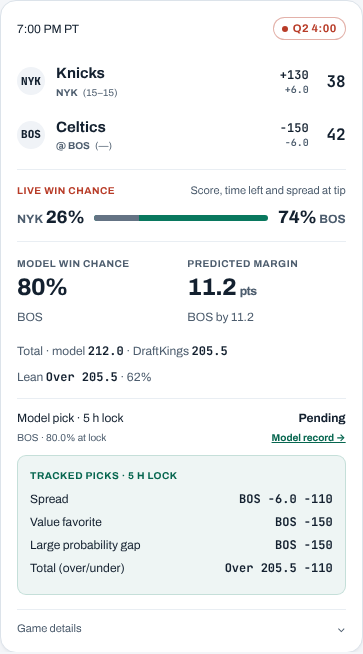
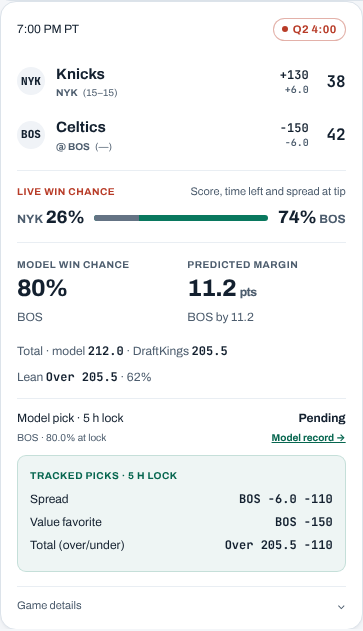
Public UI check: three tests after H4's retirement
The browser check still expected four public tests on the fixture pages
(16 tracked rows, 4 tracked lines on the live card). With H4 off the
public pages these are 12 and 3. Screenshots and CHECKS.txt regenerated
by research/check_public_ui.py.

Claude-Session: https://claude.ai/code/session_01Tymo99fiJq8sHibSrx9Dy3

diff --git a/research/check_public_ui.py b/research/check_public_ui.py
@@ -207,7 +207,7 @@ def main():
                     page.get_by_role('button',name='Model predictions',exact=True).click()
                     assert page.locator('[data-prediction-row]:visible').count()==4  # filters survive a view change
                     page.get_by_role('button',name='Tracked picks',exact=True).click()
-                    assert page.locator('[data-result-row]').count()==16
+                    assert page.locator('[data-result-row]').count()==12
                     for result in ('Win','Loss','Push','Pending'):
                         assert page.locator('.result-badge',has_text=result).count()>0,result
                     page.get_by_label('Test',exact=True).select_option('spread')
@@ -308,8 +308,8 @@ def main():
                 live=page.locator('[data-gid="fixture-3"]')
                 live.locator('.st').filter(has_text='Q2 4:00').wait_for()
                 assert live.locator('.sc[data-side="home"]').inner_text()=='42'
-                assert live.locator('.tracked-line').count()==4
-                checks.append('Live-score overlay updated status and scores without changing four frozen selections')
+                assert live.locator('.tracked-line').count()==3
+                checks.append('Live-score overlay updated status and scores without changing three frozen selections')
                 # Live win chance (owner request, 2026-11-07): the browser's
                 # figure equals live_wp.win_prob for the card's frozen spread
                 fit = live_wp.load()
